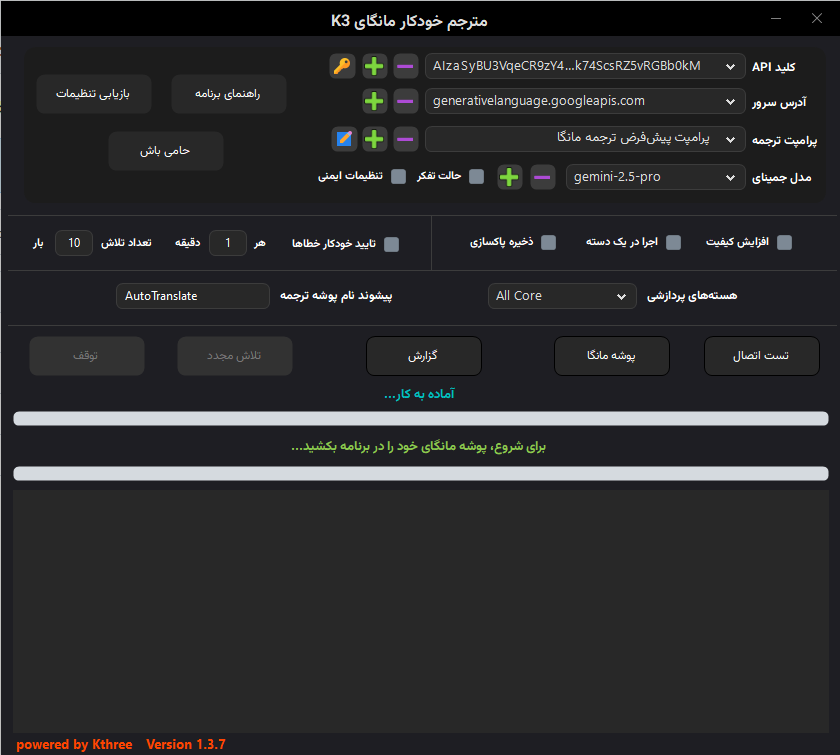
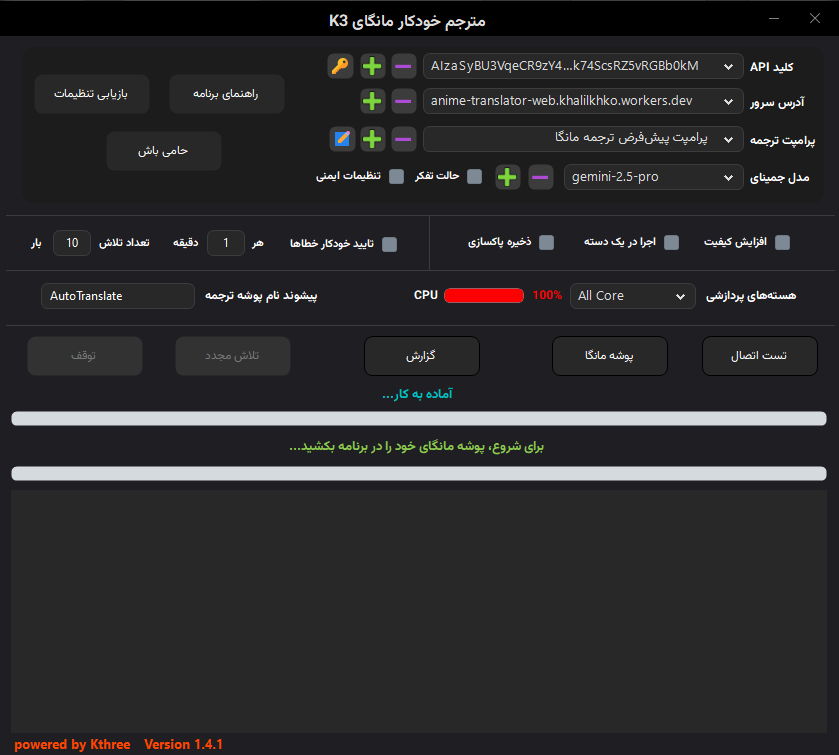
Add files via upload

diff --git a/docs/index.html b/docs/index.html
@@ -39,7 +39,7 @@
 
         <!-- === دکمه دانلود === -->
         <div class="mid-download-container section">
-            <a href="https://zaya.io/K3MangaATdownload" class="btn-download">دانلود نسخه رایگان (v1.3.7)</a>
+            <a href="https://zaya.io/K3MangaATdownload" class="btn-download">دانلود نسخه رایگان (v1.4.1)</a>
         </div>
   <!-- === دکمه دانلود === -->
         <div class="mid-download-container section">
@@ -162,10 +162,22 @@
 
         <!-- === لاگ تغییرات === -->
         <div class="section" id="updates">
-            <h2>آخرین بروزرسانیها</h2>
+            <h2>جزئیات آخرین بروزرسانیها</h2>
             <div class="update-box">
                 <div class="update-header">
-                    <span class="version-badge">نسخه 1.3.7</span>
+                    <span class="version-badge">نسخه 1.4.1</span>
+                    <span class="update-date">۱۴۰۴/۰۹/۰۳</span>
+                </div>
+                <ul class="update-list">
+                    <li>
+                        <span class="tag tag-new">جدید</span>
+                       نمایش میزان مصرف CPU
+                    </li>
+                </ul>
+            </div>
+            <div class="update-box">
+                <div class="update-header">
+                    <span class="version-badge">نسخه 1.3.6</span>
                     <span class="update-date">۱۴۰۴/۰۸/۲۹</span>
                 </div>
                 <ul class="update-list">
